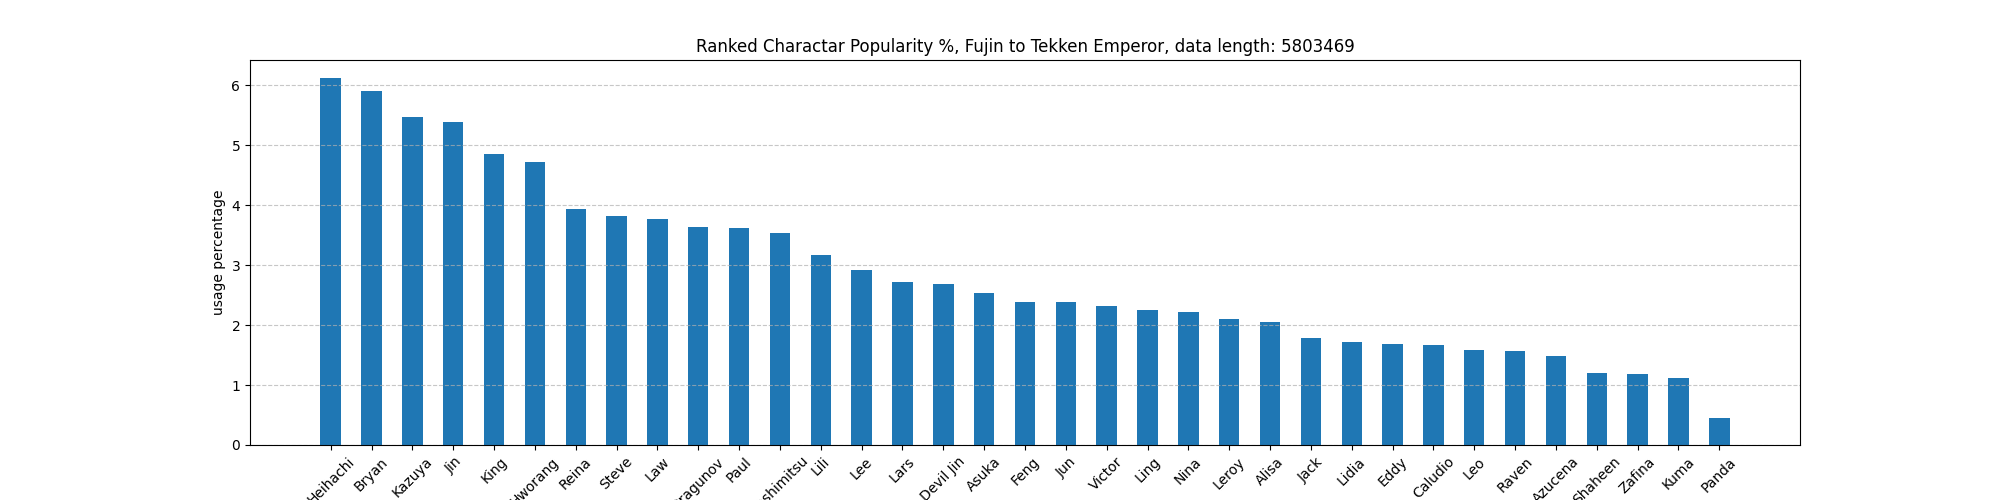
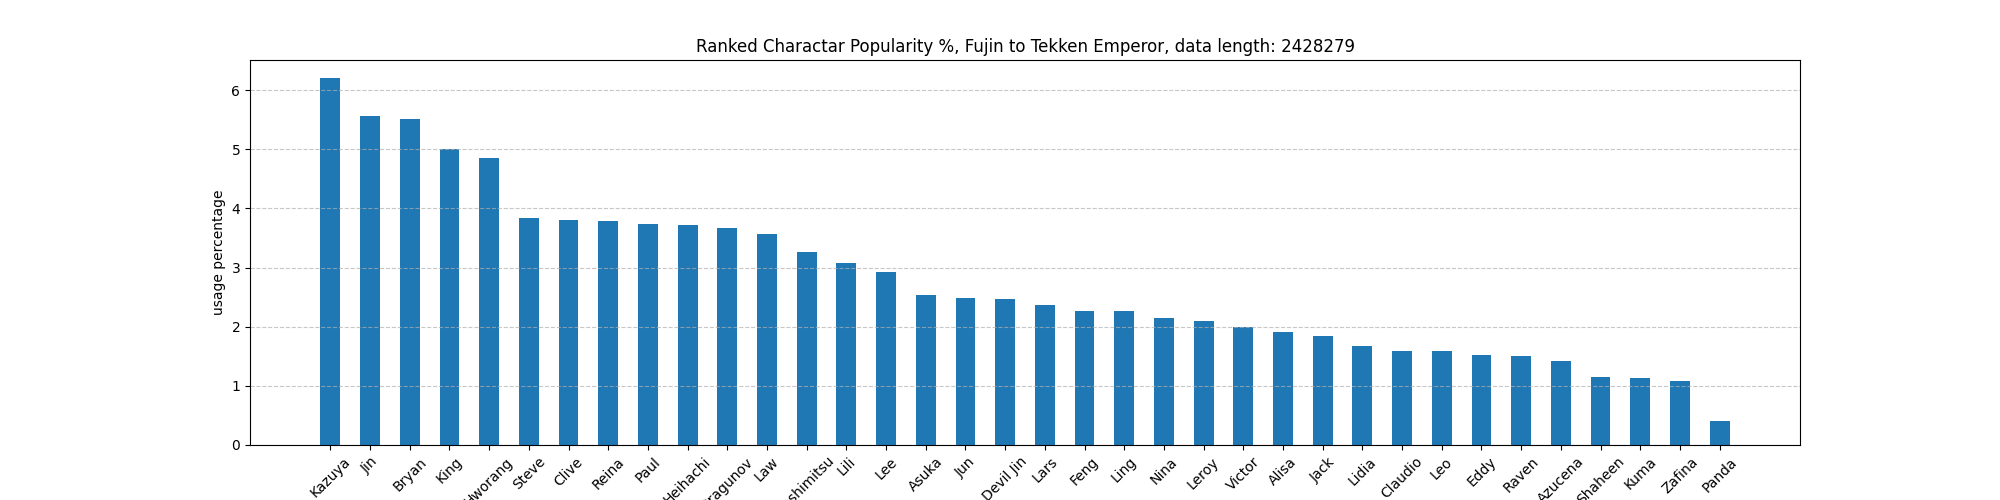
update, Jan 14th -> Jan 31st

Changed region(s): [[0.155, 0.18, 0.868, 1.0], [0.651, 0.06, 0.682, 0.12]]

diff --git a/main.py b/main.py
@@ -3,7 +3,7 @@ import os
 from transform import Transformer
 from plot import Plot
 from ingestion import Extractor
-from datetime import datetime
+from datetime import datetime, date, timedelta
 
 
 def main():
@@ -182,29 +182,34 @@ def main():
     
     print("plotting and saving the output...")
     
-    pl.plot_data(most_pop_data, playable_char_map, unused_idxs, 
-                 f"Ranked Charactar Popularity Data % (all ranks), no. of replays: {sum(most_pop_data) // 2}", "./pics/char_pop_all", percentage=True)
+    base_out_path = "./pics/20"+datetime.strftime(datetime.now() - timedelta(days=30), "%y-%m-%d")+"-TO-"+str(date.today())
+    if not os.path.exists(base_out_path):
+        os.makedirs(base_out_path)
+    base_out_path = base_out_path+"/"
     
-    pl.plot_rank_data(rank_data, rank_mapping, "./pics/rank_dist", True)
+    pl.plot_data(most_pop_data, playable_char_map, unused_idxs, 
+                 f"Ranked Charactar Popularity Data % (all ranks), no. of replays: {sum(most_pop_data) // 2}", base_out_path+"char_pop_all", percentage=True)
+    
+    pl.plot_rank_data(rank_data, rank_mapping, base_out_path+"rank_dist", True)
     
     pl.plot_char_winrates(char_usage_all_ranks, char_wins_all_ranks, unused_idxs, playable_char_map,
-                          f"character winrate % sorted high to low, all ranks, data length: {sum(char_usage_all_ranks) // 2}", "./pics/char_winrate_all", True)
+                          f"character winrate % sorted high to low, all ranks, data length: {sum(char_usage_all_ranks) // 2}", base_out_path+"char_winrate_all", True)
     
     pl.plot_data(most_pop_fujin_onwards, playable_char_map, unused_idxs, 
-                 f"Ranked Charactar Popularity %, Fujin to Tekken Emperor, data length: {sum(most_pop_fujin_onwards) // 2}", "./pics/char_pop_fujin", True)
+                 f"Ranked Charactar Popularity %, Fujin to Tekken Emperor, data length: {sum(most_pop_fujin_onwards) // 2}", base_out_path+"char_pop_fujin", True)
     
     pl.plot_char_winrates(char_usage_Fujin_onwards, char_wins_Fujin_onwards, unused_idxs, playable_char_map, 
-                          f"Global winrate %, Fujin to Tekken Emperor, data length: {sum(char_usage_Fujin_onwards) // 2}", "./pics/char_win_fujin", True)
+                          f"Global winrate %, Fujin to Tekken Emperor, data length: {sum(char_usage_Fujin_onwards) // 2}", base_out_path+"char_win_fujin", True)
     
     pl.plot_data(most_pop_god_ranks, playable_char_map, unused_idxs, 
-                 f"Ranked Charactar Popularity %, God Ranks, data length: {sum(most_pop_god_ranks) // 2}", "./pics/char_pop_God", True)
+                 f"Ranked Charactar Popularity %, God Ranks, data length: {sum(most_pop_god_ranks) // 2}", base_out_path+"char_pop_God", True)
     
     pl.plot_char_winrates(char_usage_god_ranks, char_wins_god_ranks, unused_idxs, playable_char_map, 
-                          f"God Ranks winrate %, total data: {sum(char_usage_god_ranks) // 2}", "./pics/char_win_god", True)
+                          f"God Ranks winrate %, total data: {sum(char_usage_god_ranks) // 2}", base_out_path+"char_win_god", True)
     
-    pl.plot_heatmap(matchup_winrates, playable_char_map, unused_idxs, "./pics/heatmap_all", "character head to head win rates, all ranks")
-    pl.plot_heatmap(matchup_winrates_fujin, playable_char_map, unused_idxs, "./pics/heatmap_fujin", "character head to head win rates, Fujin to Tekken Emperor")
-    pl.plot_heatmap(matchup_winrates_god_ranks, playable_char_map, unused_idxs, "./pics/heatmap_god", "character head to head win rates, God ranks")
+    pl.plot_heatmap(matchup_winrates, playable_char_map, unused_idxs, base_out_path+"heatmap_all", "character head to head win rates, all ranks")
+    pl.plot_heatmap(matchup_winrates_fujin, playable_char_map, unused_idxs, base_out_path+"heatmap_fujin", "character head to head win rates, Fujin to Tekken Emperor")
+    pl.plot_heatmap(matchup_winrates_god_ranks, playable_char_map, unused_idxs, base_out_path+"heatmap_god", "character head to head win rates, God ranks")
     
     update_timer = datetime.now()
     print(f"updating local enteries... {update_timer}")

diff --git a/transform.py b/transform.py
@@ -80,7 +80,9 @@ class Transformer():
                 if idx == i:
                     matchup_winrates[idx - off][i - off_i] = 50
                 else:
-                    wr = (wins[i] / apps[i]) * 100
+                    wr = 0
+                    if apps[i] > 0:
+                        wr = (wins[i] / apps[i]) * 100
                     matchup_winrates[idx - off][i - off_i] = wr
         
         

diff --git a/readme.md b/readme.md
@@ -1,15 +1,15 @@
-## Tekken 8 ranked matches replay stats -- November 8th to December 8th 2024
+## Tekken 8 replay stats -- Jan 17th to Jan 31st
 
-Collected ranked replay data from "WAVU WANK" api: https://wank.wavu.wiki/api
+Wrote some code to collect ranked replay data from "wavu wank" api: https://wank.wavu.wiki/api
 
-**There are 13,481,323 replay data, with 344,144 players who have played at least one game of ranked**:
-- Replays are from November 8th to December 8th 2024
+**There are over 5 million replay data, with almost 250,000 players who have played at least one game of ranked**:
+- Ranked replays from Jan 14th to Jan 31st
 - Ranked matches only
 
 **Data is put into 3 categories**:
 - All ranks
 - Fujin to Tekken Emperor
-- Tekken God to God of Destruction (God ranks)
+- God ranks (Tekken King to max rank)
 
 **The images have the following for all of the categories above**:
 - Character popularity
@@ -18,9 +18,9 @@ Collected ranked replay data from "WAVU WANK" api: https://wank.wavu.wiki/api
 
 
 **Rank distribution**: 
-- showcasing where most matches are being played (note that this does not mean most people are ranked there.... it indicates where ranked matches are being played)
+- showcasing where most matches are being played (note that this does not mean most people are ranked there.... it indicates where matches are being played)
 
-![replay distribution](./pics/Rank_dist.png "character popularity, all ranks")
+![replay distribution](./pics/rank_dist.png "character popularity, all ranks")
 
 
 **Character popularity**
@@ -28,7 +28,7 @@ Collected ranked replay data from "WAVU WANK" api: https://wank.wavu.wiki/api
 
 ![All Ranks](./pics/char_pop_all.png "character popularity, all ranks")
 
-![Fujin to Emperor](./pics/char_pop_fujin.png "char pop, Fujin to Emperor")
+![Fujin to Emperor](./pics/char_pop_Fujin.png "char pop, Fujin to Emperor")
 
 ![God Ranks](./pics/char_pop_God.png "char pop, God Ranks")
 
@@ -45,7 +45,7 @@ Collected ranked replay data from "WAVU WANK" api: https://wank.wavu.wiki/api
 
 **Character head to head heatmap**
 - The character on the left is the winner
-- Example: Paul on the left and Law on the bottom with grid value x -> "Paul wins x % of matches against Law"
+- Example: Paul on the left and Law on the bottom with grid value x -> "Paul wins x% of matches against Law"
 
 
 ![All Ranks](./pics/heatmap_all.png "character head to heads, all ranks")
